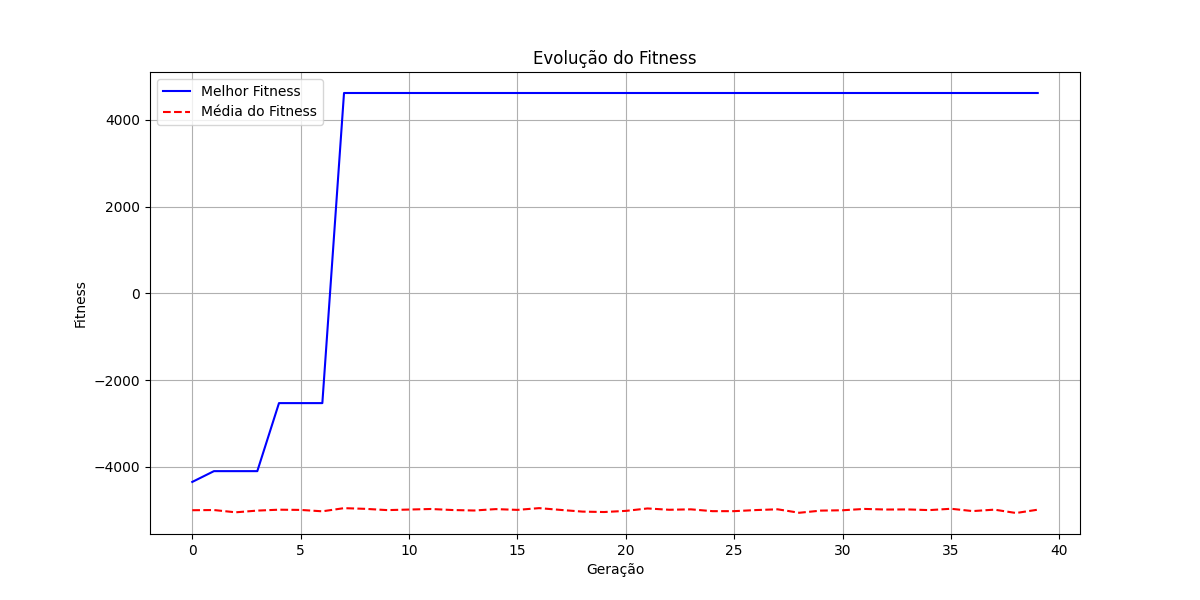
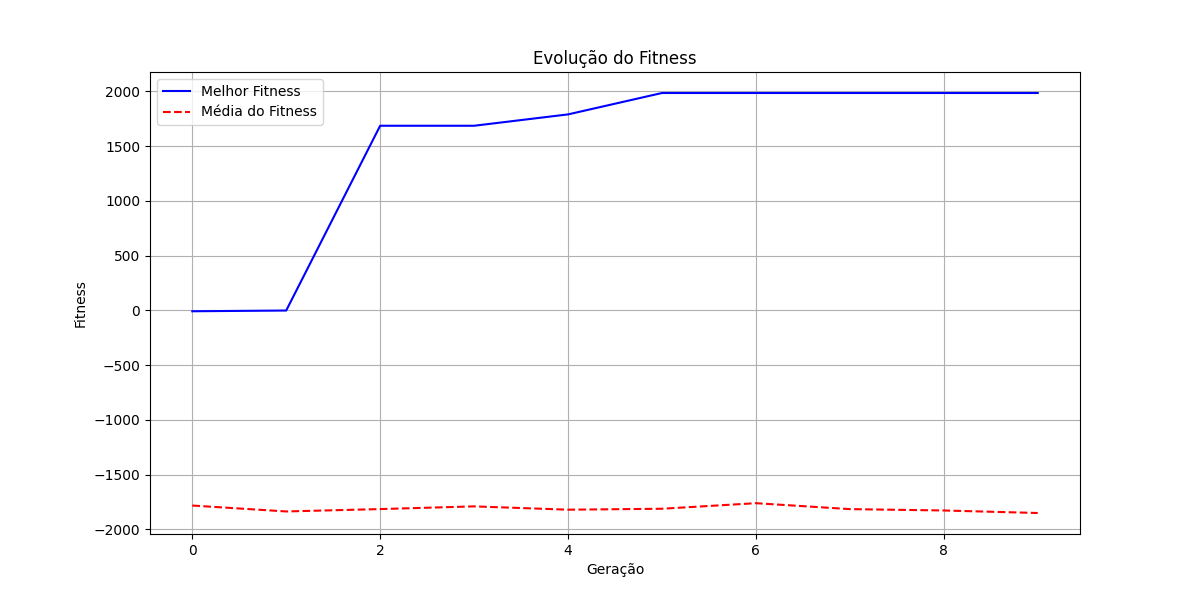
Melhora avaliação de indivíduos com penalidades balanceadas e critérios mais robustos
Reduz penalidades excessivas por comportamentos como loops de posição, loops de ângulo e tempo sem progresso.

Ajusta detecção de loop espacial e angular para critérios mais realistas (menor distância final e janela de observação reduzida).

Penaliza suavemente comportamentos indesejados como ausência de coleta, estagnação e colisões consecutivas.

Rebalanceia recompensas: coleta de recursos e alcance da meta agora oferecem ganhos proporcionais, evitando overfitting em um único critério.

Adiciona métricas como diversidade de posições visitadas e tempo sem coletar para enriquecer a avaliação do comportamento.

Garante maior robustez e estabilidade durante a evolução, reduzindo falsos negativos e viabilizando soluções funcionais.

diff --git a/robo_exercicio.py b/robo_exercicio.py
@@ -1021,10 +1021,9 @@ class ProgramacaoGenetica:
     def avaliar_individuo(self, individuo, num_tentativas=3):
         ambiente = Ambiente()
         robo = Robo(ambiente.largura // 2, ambiente.altura // 2)
-        individuo.ambiente = ambiente  # Atribuir o ambiente ao indivíduo
+        individuo.ambiente = ambiente
         fitness = 0
-        colisoes_consecutivas = 0
-        
+
         for _ in range(num_tentativas):
             ambiente.reset()
             robo.reset(ambiente.largura // 2, ambiente.altura // 2)
@@ -1033,8 +1032,8 @@ class ProgramacaoGenetica:
             individuo.estado = 'BUSCANDO_RECURSO'
             individuo.ultima_posicao = None
             individuo.tempo_sem_progresso = 0
-            individuo.ambiente = ambiente  # Atualizar o ambiente a cada tentativa
-            
+            individuo.ambiente = ambiente
+
             ultima_colisao = False
             tempo_sem_movimento = 0
             ultima_posicao = (robo.x, robo.y)
@@ -1044,156 +1043,125 @@ class ProgramacaoGenetica:
             ultimos_angulos = []
             tempo_sem_coletar = 0
             ultimo_recurso_coletado = 0
-            posicoes_visitadas = set()  # Novo: conjunto de posições visitadas
-            ultimas_posicoes = []  # Novo: lista das últimas posições
-            
+            posicoes_visitadas = set()
+            ultimas_posicoes = []
+            colisoes_consecutivas = 0
+
             max_passos = 500
             passos = 0
-            
+
             while passos < max_passos:
                 sensores = robo.get_sensores(ambiente)
                 sensores['x'] = robo.x
                 sensores['y'] = robo.y
                 sensores['recursos_coletados'] = robo.recursos_coletados
                 sensores['total_recursos'] = len(ambiente.recursos)
-                
-                # Verificar tempo sem coletar recursos
+
                 if robo.recursos_coletados == ultimo_recurso_coletado:
                     tempo_sem_coletar += 1
                 else:
                     tempo_sem_coletar = 0
                     ultimo_recurso_coletado = robo.recursos_coletados
-                
-                # Penalidade por tempo sem coletar recursos
-                if tempo_sem_coletar > 100:  # 100 passos sem coletar
-                    fitness -= 5000  # Penalidade severa
+
+                if tempo_sem_coletar > 150:
+                    fitness -= 1000  # Penalidade moderada
                     break
-                
-                # Detectar movimento circular usando posições
+
                 posicao_atual = (round(robo.x, 1), round(robo.y, 1))
                 posicoes_visitadas.add(posicao_atual)
                 ultimas_posicoes.append(posicao_atual)
-                if len(ultimas_posicoes) > 20:  # Aumentado para 20 posições
+                if len(ultimas_posicoes) > 20:
                     ultimas_posicoes.pop(0)
-                
-                # Verificar se está girando em círculos usando posições
+
                 if len(ultimas_posicoes) >= 20:
-                    # Calcular a distância total percorrida
-                    distancia_total = 0
-                    for i in range(len(ultimas_posicoes)-1):
-                        dx = ultimas_posicoes[i+1][0] - ultimas_posicoes[i][0]
-                        dy = ultimas_posicoes[i+1][1] - ultimas_posicoes[i][1]
-                        distancia_total += np.sqrt(dx*dx + dy*dy)
-                    
-                    # Calcular a distância entre a primeira e última posição
-                    dx = ultimas_posicoes[-1][0] - ultimas_posicoes[0][0]
-                    dy = ultimas_posicoes[-1][1] - ultimas_posicoes[0][1]
-                    distancia_final = np.sqrt(dx*dx + dy*dy)
-                    
-                    # Se a distância total for muito maior que a distância final, está girando
-                    if distancia_total > 100 and distancia_final < 50:
-                        fitness -= 10000  # Penalidade muito severa
+                    distancia_total = sum(
+                        np.hypot(ultimas_posicoes[i+1][0] - ultimas_posicoes[i][0],
+                                ultimas_posicoes[i+1][1] - ultimas_posicoes[i][1])
+                        for i in range(len(ultimas_posicoes) - 1)
+                    )
+                    distancia_final = np.hypot(ultimas_posicoes[-1][0] - ultimas_posicoes[0][0],
+                                            ultimas_posicoes[-1][1] - ultimas_posicoes[0][1])
+                    if distancia_total > 80 and distancia_final < 20:
+                        fitness -= 2000  # Penalidade menor e mais justa
                         break
-                
-                # Detectar movimento circular usando ângulos
+
                 angulo_atual = sensores['angulo_atual']
                 angulos_visitados.add(round(angulo_atual, 2))
                 ultimos_angulos.append(angulo_atual)
                 if len(ultimos_angulos) > 10:
                     ultimos_angulos.pop(0)
-                
-                # Verificar se está girando em círculos usando ângulos
                 if len(ultimos_angulos) >= 10:
                     variacao_angulo = max(ultimos_angulos) - min(ultimos_angulos)
                     if variacao_angulo > 2 * np.pi:
-                        fitness -= 10000  # Penalidade muito severa
+                        fitness -= 2000  # Penalidade reduzida
                         break
-                
+
                 individuo.atualizar_estado(sensores)
-                
+
                 if individuo.estado == 'BUSCANDO_RECURSO':
                     recurso_mais_proximo, dist = individuo.encontrar_recurso_mais_proximo(sensores, ambiente)
                     if recurso_mais_proximo:
                         individuo.recurso_atual = recurso_mais_proximo
                         individuo.tempo_perseguindo = 0
-                
-                aceleracao = individuo.avaliar(sensores, 'aceleracao')
-                rotacao = individuo.avaliar(sensores, 'rotacao')
-                
-                aceleracao = max(-1, min(1, aceleracao))
-                rotacao = max(-0.5, min(0.5, rotacao))
-                
-                # Verificar progresso em direção ao recurso
+
+                aceleracao = max(-1, min(1, individuo.avaliar(sensores, 'aceleracao')))
+                rotacao = max(-0.5, min(0.5, individuo.avaliar(sensores, 'rotacao')))
+
                 if individuo.recurso_atual:
-                    distancia_atual = np.sqrt((robo.x - individuo.recurso_atual['x'])**2 + 
-                                           (robo.y - individuo.recurso_atual['y'])**2)
+                    distancia_atual = np.hypot(robo.x - individuo.recurso_atual['x'],
+                                            robo.y - individuo.recurso_atual['y'])
                     if distancia_atual >= ultima_distancia_recurso:
                         tempo_sem_progresso_recurso += 1
                     else:
                         tempo_sem_progresso_recurso = 0
                     ultima_distancia_recurso = distancia_atual
-                
-                distancia_movimento = np.sqrt((robo.x - ultima_posicao[0])**2 + (robo.y - ultima_posicao[1])**2)
+
+                distancia_movimento = np.hypot(robo.x - ultima_posicao[0],
+                                            robo.y - ultima_posicao[1])
                 if distancia_movimento < 0.1:
                     tempo_sem_movimento += 1
                 else:
                     tempo_sem_movimento = 0
                 ultima_posicao = (robo.x, robo.y)
-                
+
                 sem_energia = robo.mover(aceleracao, rotacao, ambiente)
-                
+
                 if robo.colisoes > 0 and ultima_colisao:
                     colisoes_consecutivas += 1
                 ultima_colisao = robo.colisoes > 0
-                
-                # Penalidade por ficar preso ou rodando em círculos
-                if tempo_sem_progresso_recurso > 20 or tempo_sem_movimento > 10:
-                    fitness -= 5000  # Penalidade severa
+
+                if tempo_sem_progresso_recurso > 30 or tempo_sem_movimento > 15:
+                    fitness -= 2000
                     break
-                
+
                 if sem_energia or ambiente.passo():
                     break
-                
+
                 passos += 1
-            
-            # Cálculo do fitness mais rigoroso
+
+            # Cálculo do fitness com pesos ajustados
             fitness_tentativa = 0
-            
-            # Bônus por recursos coletados (maior peso)
-            fitness_tentativa += robo.recursos_coletados * 3000  # Aumentado para 3000
-            
-            # Bônus por completar a missão (coletar todos e atingir meta)
+            fitness_tentativa += robo.recursos_coletados * 2000
             if robo.recursos_coletados == len(ambiente.recursos) and robo.meta_atingida:
-                fitness_tentativa += 10000  # Aumentado para 10000
-            
-            # Penalidades
-            fitness_tentativa -= robo.colisoes * 1000  # Aumentado para 1000
-            fitness_tentativa -= colisoes_consecutivas * 500  # Aumentado para 500
-            fitness_tentativa -= tempo_sem_movimento * 200  # Aumentado para 200
-            fitness_tentativa -= (100 - robo.energia) * 10  # Aumentado para 10
-            
-            # Penalidade por não coletar recursos
+                fitness_tentativa += 5000
+
+            fitness_tentativa -= robo.colisoes * 500
+            fitness_tentativa -= colisoes_consecutivas * 200
+            fitness_tentativa -= tempo_sem_movimento * 100
+            fitness_tentativa -= (100 - robo.energia) * 5
+
             if robo.recursos_coletados == 0:
-                fitness_tentativa -= 5000  # Aumentado para 5000
-            
-            # Penalidade por ficar preso ou rodando em círculos
-            if tempo_sem_progresso_recurso > 20 or tempo_sem_movimento > 10:
-                fitness_tentativa -= 5000  # Aumentado para 5000
-            
-            # Penalidade por movimento circular
-            if len(angulos_visitados) < 5:
-                fitness_tentativa -= 5000  # Aumentado para 5000
-            
-            # Penalidade por tempo sem coletar recursos
-            fitness_tentativa -= tempo_sem_coletar * 20  # Aumentado para 20
-            
-            # Penalidade por visitar poucas posições diferentes
+                fitness_tentativa -= 2000
+
+            fitness_tentativa -= tempo_sem_coletar * 5
+
             if len(posicoes_visitadas) < 10:
-                fitness_tentativa -= 5000  # Nova penalidade
-            
+                fitness_tentativa -= 2000
+
             fitness += max(0, fitness_tentativa)
-        
+
         return fitness / num_tentativas
+
     
     def avaliar_populacao(self):
         # Criar pool de processos
@@ -1284,7 +1252,7 @@ if __name__ == "__main__":
             print("Aviso: Número de processos ajustado para 1")
         
         print(f"Usando {pg.num_processos} processos para avaliação")
-        melhor_individuo, historico, historico_media = pg.evoluir(n_geracoes=40)
+        melhor_individuo, historico, historico_media = pg.evoluir(n_geracoes=10)
         
         if melhor_individuo is None:
             raise Exception("Nenhum indivíduo válido foi encontrado durante a evolução")
